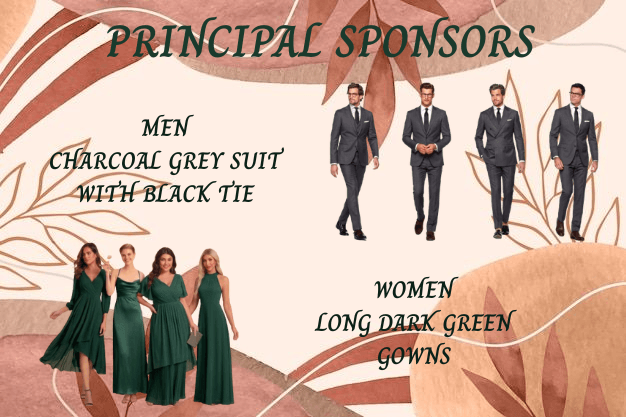
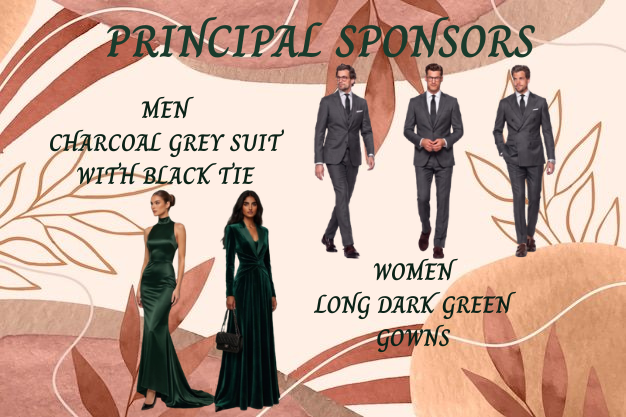
Add more photos to Our Story slideshow

Changed region(s): [[0.0607, 0.2182, 0.4553, 0.9976], [0.4856, 0.1559, 0.9712, 0.9041], [0.4856, 0.1559, 0.607, 0.6235]]

diff --git a/components/sections/DressCode.tsx b/components/sections/DressCode.tsx
@@ -39,15 +39,15 @@ export default function DressCode() {
             transition={{ duration: 0.8, delay: 0.1 }}
             className="bg-warm-cream rounded-lg overflow-hidden shadow-lg border border-warm-beige/30"
           >
-            {/* Clickable Image Container */}
+            {/* Clickable Image Container - Changed to h-auto to fit image perfectly */}
             <div 
-              className="relative h-[400px] md:h-[500px] group cursor-pointer overflow-hidden"
+              className="relative w-full group cursor-pointer overflow-hidden"
               onClick={() => setEnlargedImage("/images/dresscode-sponsors.png")}
             >
               <img 
                 src="/images/dresscode-sponsors.png" 
                 alt="Principal Sponsors Attire Inspiration"
-                className="w-full h-full object-cover transition-transform duration-700 group-hover:scale-105"
+                className="w-full h-auto object-contain transition-transform duration-700 group-hover:scale-105"
               />
               <div className="absolute inset-0 bg-black/0 group-hover:bg-black/30 transition-all duration-300 flex items-center justify-center">
                 <div className="opacity-0 group-hover:opacity-100 transition-opacity duration-300 bg-white/90 p-4 rounded-full shadow-xl transform scale-75 group-hover:scale-100">
@@ -57,16 +57,14 @@ export default function DressCode() {
               <div className="absolute inset-0 bg-gradient-to-t from-black/60 via-transparent to-transparent pointer-events-none" />
               <div className="absolute bottom-0 left-0 right-0 p-6 text-white pointer-events-none">
                 <h3 className="text-3xl font-serif mb-2">Principal Sponsors</h3>
-                <p className="text-sm opacity-90">Gentlemen & Ladies</p>
+                <p className="text-sm opacity-90">Ninongs & Ninangs</p>
               </div>
             </div>
 
             {/* Role-Specific Details & Palettes */}
             <div className="p-8 space-y-8">
-              
-              {/* Ninongs */}
               <div className="text-center">
-                <p className="text-sm uppercase tracking-widest text-warm-accent mb-2">Gentlemen</p>
+                <p className="text-sm uppercase tracking-widest text-warm-accent mb-2">Ninongs</p>
                 <p className="text-lg text-warm-dark font-serif mb-4">Charcoal Gray Suit with Black Tie</p>
                 <div className="flex justify-center gap-4">
                   <div className="flex flex-col items-center gap-2">
@@ -82,22 +80,20 @@ export default function DressCode() {
 
               <div className="w-full h-px bg-warm-beige/50" />
 
-              {/* Ladies */}
               <div className="text-center">
-                <p className="text-sm uppercase tracking-widest text-warm-accent mb-2">Ladies</p>
-                <p className="text-lg text-warm-dark font-serif mb-4">Long Dark Green or Olive Gowns</p>
+                <p className="text-sm uppercase tracking-widest text-warm-accent mb-2">Ninangs</p>
+                <p className="text-lg text-warm-dark font-serif mb-4">Long Dark Green or Emerald Gowns</p>
                 <div className="flex justify-center gap-4">
                   <div className="flex flex-col items-center gap-2">
-                    <div className="w-10 h-10 rounded-full bg-[#2F4F2F] shadow-md border-2 border-white" />
-                    <span className="text-[10px] uppercase tracking-wide text-warm-dark font-medium">Dark Green</span>
+                    <div className="w-10 h-10 rounded-full bg-[#1B3D2E] shadow-md border-2 border-white" />
+                    <span className="text-[10px] uppercase tracking-wide text-warm-dark font-medium">Deep Forest</span>
                   </div>
                   <div className="flex flex-col items-center gap-2">
-                    <div className="w-10 h-10 rounded-full bg-[#5A6B4A] shadow-md border-2 border-white" />
-                    <span className="text-[10px] uppercase tracking-wide text-warm-dark font-medium">Olive</span>
+                    <div className="w-10 h-10 rounded-full bg-[#064E3B] shadow-md border-2 border-white" />
+                    <span className="text-[10px] uppercase tracking-wide text-warm-dark font-medium">Dark Emerald</span>
                   </div>
                 </div>
               </div>
-
             </div>
           </motion.div>
 
@@ -109,15 +105,15 @@ export default function DressCode() {
             transition={{ duration: 0.8, delay: 0.1 }}
             className="bg-white rounded-lg overflow-hidden shadow-lg border border-warm-beige/30"
           >
-            {/* Clickable Image Container */}
+            {/* Clickable Image Container - Changed to h-auto to fit image perfectly */}
             <div 
-              className="relative h-[400px] md:h-[500px] group cursor-pointer overflow-hidden"
-              onClick={() => setEnlargedImage("/images/dresscode-guests.webp")}
+              className="relative w-full group cursor-pointer overflow-hidden"
+              onClick={() => setEnlargedImage("/images/dresscode-guests.png")}
             >
               <img 
-                src="/images/dresscode-guests.webp" 
+                src="/images/dresscode-guests.png" 
                 alt="Guests Attire Inspiration"
-                className="w-full h-full object-cover transition-transform duration-700 group-hover:scale-105"
+                className="w-full h-auto object-contain transition-transform duration-700 group-hover:scale-105"
               />
               <div className="absolute inset-0 bg-black/0 group-hover:bg-black/30 transition-all duration-300 flex items-center justify-center">
                 <div className="opacity-0 group-hover:opacity-100 transition-opacity duration-300 bg-white/90 p-4 rounded-full shadow-xl transform scale-75 group-hover:scale-100">
@@ -133,8 +129,6 @@ export default function DressCode() {
 
             {/* Role-Specific Details & Palettes */}
             <div className="p-8 space-y-8">
-              
-              {/* Gentlemen */}
               <div className="text-center">
                 <p className="text-sm uppercase tracking-widest text-warm-accent mb-2">Gentlemen</p>
                 <p className="text-lg text-warm-dark font-serif mb-4">Black Suit with Black Tie</p>
@@ -143,29 +137,29 @@ export default function DressCode() {
                     <div className="w-10 h-10 rounded-full bg-[#1A1A1A] shadow-md border-2 border-white" />
                     <span className="text-[10px] uppercase tracking-wide text-warm-dark font-medium">Black</span>
                   </div>
-                  <div className="flex flex-col items-center gap-2">
-                  </div>
                 </div>
               </div>
 
               <div className="w-full h-px bg-warm-beige/50" />
 
-              {/* Ladies */}
               <div className="text-center">
                 <p className="text-sm uppercase tracking-widest text-warm-accent mb-2">Ladies</p>
                 <p className="text-lg text-warm-dark font-serif mb-4">Terracotta, Rust, or Earthy Shades</p>
                 <div className="flex justify-center gap-4">
                   <div className="flex flex-col items-center gap-2">
-                    <div className="w-10 h-10 rounded-full bg-[#E07A5F] shadow-md border-2 border-white" />
-                    <span className="text-[10px] uppercase tracking-wide text-warm-dark font-medium">Terracotta</span>
+                    <div className="w-10 h-10 rounded-full bg-[#A0522D] shadow-md border-2 border-white" />
+                    <span className="text-[10px] uppercase tracking-wide text-warm-dark font-medium">Rust & Copper</span>
                   </div>
                   <div className="flex flex-col items-center gap-2">
-                    <div className="w-10 h-10 rounded-full bg-[#C49A8A] shadow-md border-2 border-white" />
-                    <span className="text-[10px] uppercase tracking-wide text-warm-dark font-medium">Rust</span>
+                    <div className="w-10 h-10 rounded-full bg-[#B87333] shadow-md border-2 border-white" />
+                    <span className="text-[10px] uppercase tracking-wide text-warm-dark font-medium">Spice & Earth</span>
+                  </div>
+                  <div className="flex flex-col items-center gap-2">
+                    <div className="w-10 h-10 rounded-full bg-[#CC5500] shadow-md border-2 border-white" />
+                    <span className="text-[10px] uppercase tracking-wide text-warm-dark font-medium">Burnt Orange</span>
                   </div>
                 </div>
               </div>
-
             </div>
           </motion.div>
         </div>

diff --git a/components/sections/FAQs.tsx b/components/sections/FAQs.tsx
@@ -1,0 +1,71 @@
+"use client";
+import ScrollReveal from "@/components/animations/ScrollReveal";
+
+const faqs = [
+  {
+    question: "When is the RSVP deadline?",
+    answer: "Please let us know if you can make it by October 15, 2026, so we can save a seat for you! After this date, our system will close to finalize the headcount with our venue. Any unconfirmed RSVPs will be gently counted as unable to attend."
+  },
+  {
+    question: "Can I bring a date?",
+    answer: "Because our venue space is limited, we are only able to accommodate guests who are formally named on the invitation. We kindly ask that only those who received an RSVP invitation attend."
+  },
+  {
+    question: "Are kids welcome?",
+    answer: "We love your little ones dearly! However, to give all of our guests—including parents—a chance to relax and celebrate freely, we have chosen to keep our wedding an adult-only event (with the exception of immediate family in the wedding party)."
+  },
+  {
+    question: "What time should I arrive?",
+    answer: "To help us stay on schedule and make sure everyone is comfortably settled, please plan to arrive about 15 to 20 minutes before the ceremony begins."
+  },
+  {
+    question: "Where should I park?",
+    answer: "Convenient parking is available right at the venue."
+  },
+  {
+    question: "Is the wedding indoors or outdoors?",
+    answer: "Both our ceremony and reception—including the cocktail hour—will take place completely indoors, so you can enjoy the entire celebration in comfort!"
+  },
+  {
+    question: "Is it okay to take pictures with our phones and cameras during the wedding?",
+    answer: "We encourage an unplugged ceremony! We would love for everyone to be fully present with us as we say our vows while our photography team captures the moment. Once the reception starts, please feel free to take and share as many photos as you like!"
+  }
+];
+
+export default function FAQs() {
+  return (
+    <section className="w-full bg-warm-bg py-24 px-4">
+      <div className="max-w-3xl mx-auto">
+        <ScrollReveal variant="fadeUp">
+          <div className="text-center mb-16">
+            <span className="text-[10px] uppercase tracking-[0.5em] text-warm-accent block mb-4 font-sans">
+              Information
+            </span>
+            <h2 className="text-5xl md:text-6xl font-serif text-warm-dark tracking-tighter mb-6">
+              FAQs
+            </h2>
+            <div className="w-16 h-[1px] bg-warm-beige mx-auto mb-8" />
+            <p className="text-lg text-warm-dark/80 font-serif italic">
+              We are so excited to celebrate with you! To help you plan for our big day, we&apos;ve put together answers to a few common questions.
+            </p>
+          </div>
+
+          <div className="space-y-8">
+            {faqs.map((faq, index) => (
+              <ScrollReveal key={index} variant="fadeUp" delay={index * 0.1}>
+                <div className="bg-warm-cream/50 rounded-lg p-6 md:p-8 border border-warm-beige/30">
+                  <h3 className="text-xl md:text-2xl font-serif text-warm-dark mb-4">
+                    {faq.question}
+                  </h3>
+                  <p className="text-warm-dark/70 text-base md:text-lg font-sans leading-relaxed">
+                    {faq.answer}
+                  </p>
+                </div>
+              </ScrollReveal>
+            ))}
+          </div>
+        </ScrollReveal>
+      </div>
+    </section>
+  );
+}

diff --git a/components/sections/OurStory.tsx b/components/sections/OurStory.tsx
@@ -8,22 +8,22 @@ const storySections = [
     title: "Where It All Began",
     text: "It all kicked off in 2017 when a workplace intro revealed the ultimate plot twist: we’d actually been running in the exact same neighborhood crew all along! What started as casual work banter quickly turned into late-night talks, endless laughter, and realizing we were standard-issue best friends meant for each other.",
     // Keep the .JPG uppercase to match your Vercel assets
-    photos: ["/images/story1-photo1.JPG", "/images/story1-photo2.JPG", "/images/story1-photo3.JPG"]
+    photos: ["/images/story1-photo1.JPG", "/images/story1-photo2.JPG", "/images/story1-photo3.JPG", "/images/story1-photo4.JPG", "/images/story1-photo5.JPG"]
   },
   {
     title: "Our Favorite Adventure",
     text: "Fast forward through years of adventures, favorite memories, and building our life together, which naturally led to our engagement on December 2, 2025 in Japan—our all-time favorite destination!",
-    photos: ["/images/story2-photo1.JPG", "/images/story2-photo2.JPG", "/images/story2-photo3.JPG"]
+    photos: ["/images/story2-photo1.JPG", "/images/story2-photo2.JPG", "/images/story2-photo3.JPG", "/images/story2-photo4.JPG", "/images/story2-photo5.JPG"]
   },
   {
     title: "Divine Redirection",
     text: "When our original plan at Minoh Falls was unexpectedly closed, we pivoted to Umeda Sky Tower. But after checking out the crowded top deck, Pao knew we needed something far more personal. We headed down, found a quiet set of bleachers, and shared a peaceful, unscripted moment just for the two of us. He asked, she said yes, and right as we turned around, we saw a small church sitting right beside us—a serene, divine redirection truly designed by God's plan.",
-    photos: ["/images/story3-photo1.JPG", "/images/story3-photo2.JPG", "/images/story3-photo3.JPG"]
+    photos: ["/images/story3-photo1.JPG", "/images/story3-photo2.JPG", "/images/story3-photo3.JPG", "/images/story3-photo4.JPG", "/images/story3-photo5.JPG"]
   },
   {
     title: "The Celebration Begins",
     text: "Now, with hearts full of gratitude for how every step of our journey has unfolded, we feel this is the most beautiful timing to bring all our favorite people together under one roof. On February 21, 2027, we warmly invite you to join us as we celebrate our marriage—a day to share our joy, give thanks for love, family, and faith, and party with the ones who mean the world to us!",
-    photos: ["/images/story4-photo1.JPG", "/images/story4-photo2.JPG", "/images/story4-photo3.JPG"]
+    photos: ["/images/story4-photo1.JPG", "/images/story4-photo2.JPG", "/images/story4-photo3.JPG", "/images/story4-photo4.JPG", "/images/story4-photo5.JPG"]
   }
 ];
 

diff --git a/components/sections/Sponsors.tsx b/components/sections/Sponsors.tsx
@@ -76,7 +76,7 @@ export default function Sponsors() {
                 <div>
                   <p className="text-warm-dark font-semibold mb-1">Groom's Men</p>
                   <ul className="text-warm-dark space-y-1 list-none">
-                    <li>Domingo Jangayo Jr.</li><li>Bryan Elauria</li><li>Paolo Sibulo</li>
+                    <li>Inigo Katindig.</li><li>Bryan Elauria</li><li>Paolo Sibulo</li>
                     <li>Juan Paolo Macatangay</li><li>Erik Katindig</li><li>David Apolonio</li><li>Third Katindig</li>
                   </ul>
                 </div>
@@ -88,15 +88,15 @@ export default function Sponsors() {
         <div className="grid grid-cols-1 md:grid-cols-3 gap-8 mb-16">
           <ScrollReveal variant="fadeUp" delay={0.1}>
             <h3 className="text-xl font-serif text-warm-accent mb-4">Candle Sponsors</h3>
-            <div className="text-center"><p className="text-warm-dark">Bradley Dorotheo</p><p className="text-warm-accent italic">&</p><p className="text-warm-dark">Reichelle Dela Cruz</p></div>
+            <div className="text-center"><p className="text-warm-dark">Domingo Jangayo Jr</p><p className="text-warm-accent italic">&</p><p className="text-warm-dark">Reichelle Dela Cruz</p></div>
           </ScrollReveal>
           <ScrollReveal variant="fadeUp" delay={0.2}>
             <h3 className="text-xl font-serif text-warm-accent mb-4">Veil Sponsors</h3>
-            <div className="text-center"><p className="text-warm-dark">Daryl Dick Jangayo</p><p className="text-warm-accent italic">&</p><p className="text-warm-dark">Alyanna Apolonio</p></div>
+            <div className="text-center"><p className="text-warm-dark">Daryl Dick Jangayo</p><p className="text-warm-accent italic">&</p><p className="text-warm-dark">Maria Rich Elauria</p></div>
           </ScrollReveal>
           <ScrollReveal variant="fadeUp" delay={0.3}>
             <h3 className="text-xl font-serif text-warm-accent mb-4">Cord Sponsors</h3>
-            <div className="text-center"><p className="text-warm-dark">Inigo Calalang</p><p className="text-warm-accent italic">&</p><p className="text-warm-dark">Chie Elauria</p></div>
+            <div className="text-center"><p className="text-warm-dark">Charles Jude Bato</p><p className="text-warm-accent italic">&</p><p className="text-warm-dark">Alyanna Apolonio</p></div>
           </ScrollReveal>
         </div>
 

diff --git a/app/page.tsx b/app/page.tsx
@@ -12,6 +12,7 @@ import DressCode from "@/components/sections/DressCode";
 import OurStory from "@/components/sections/OurStory";
 import Sponsors from "@/components/sections/Sponsors";
 import SnowEffect from "@/components/effects/SnowEffect";
+import FAQs from "@/components/sections/FAQs";
 
 const Divider = () => (
   <div className="w-full flex justify-center py-4 bg-warm-bg">
@@ -91,7 +92,14 @@ export default function Home() {
 
         <Divider />
 
-        {/* SECTION 8: RSVP */}
+          <Divider />
+
+        {/* SECTION 8: FAQs */}
+        <FAQs />
+
+        <Divider />
+
+        {/* SECTION 9: RSVP */}
         <section className="min-h-screen w-full flex items-center justify-center relative overflow-hidden px-4 py-20">
           <div className="absolute top-1/2 left-1/2 -translate-x-1/2 -translate-y-1/2 opacity-[0.03] pointer-events-none select-none">
             <h2 className="text-[12rem] md:text-[25rem] font-serif uppercase leading-none text-warm-dark">RSVP</h2>
@@ -105,7 +113,7 @@ export default function Home() {
         <footer className="min-h-[50vh] w-full flex flex-col items-center justify-center px-4 py-20 bg-warm-bg">
           <ScrollReveal variant="scale">
             <div className="text-center space-y-6">
-              <h3 className="text-7xl font-serif text-warm-accent tracking-tighter">P & D</h3>
+              <h3 className="text-7xl font-serif text-warm-accent tracking-tighter">Pao And Dei</h3>
               <div className="h-16 w-[1px] bg-warm-beige mx-auto" />
               <p className="text-warm-dark text-[10px] tracking-[0.5em] uppercase font-sans">See you in Manila &bull; 2027</p>
             </div>

diff --git a/components/sections/Hero.tsx b/components/sections/Hero.tsx
@@ -5,6 +5,8 @@ const backgroundImages = [
   "/images/hero-bg-1.JPG", // Changed to uppercase JPG
   "/images/hero-bg-2.JPG", // Changed to uppercase JPG
   "/images/hero-bg-3.JPG", // Changed to uppercase JPG
+  "/images/hero-bg-4.JPG",
+  "/images/hero-bg-5.JPG",
 ];
 
 export default function Hero() {
@@ -37,7 +39,7 @@ export default function Hero() {
       <div className="relative z-10 flex items-center justify-center h-full text-center text-white px-4">
         <div>
           <h1 className="text-6xl md:text-8xl font-serif mb-6 drop-shadow-lg">
-            Paolo & Daisy
+            Pao And Dei
           </h1>
           <p className="text-xl md:text-2xl tracking-[0.2em] font-sans font-light drop-shadow-lg">
             Invite you to celebrate their wedding
